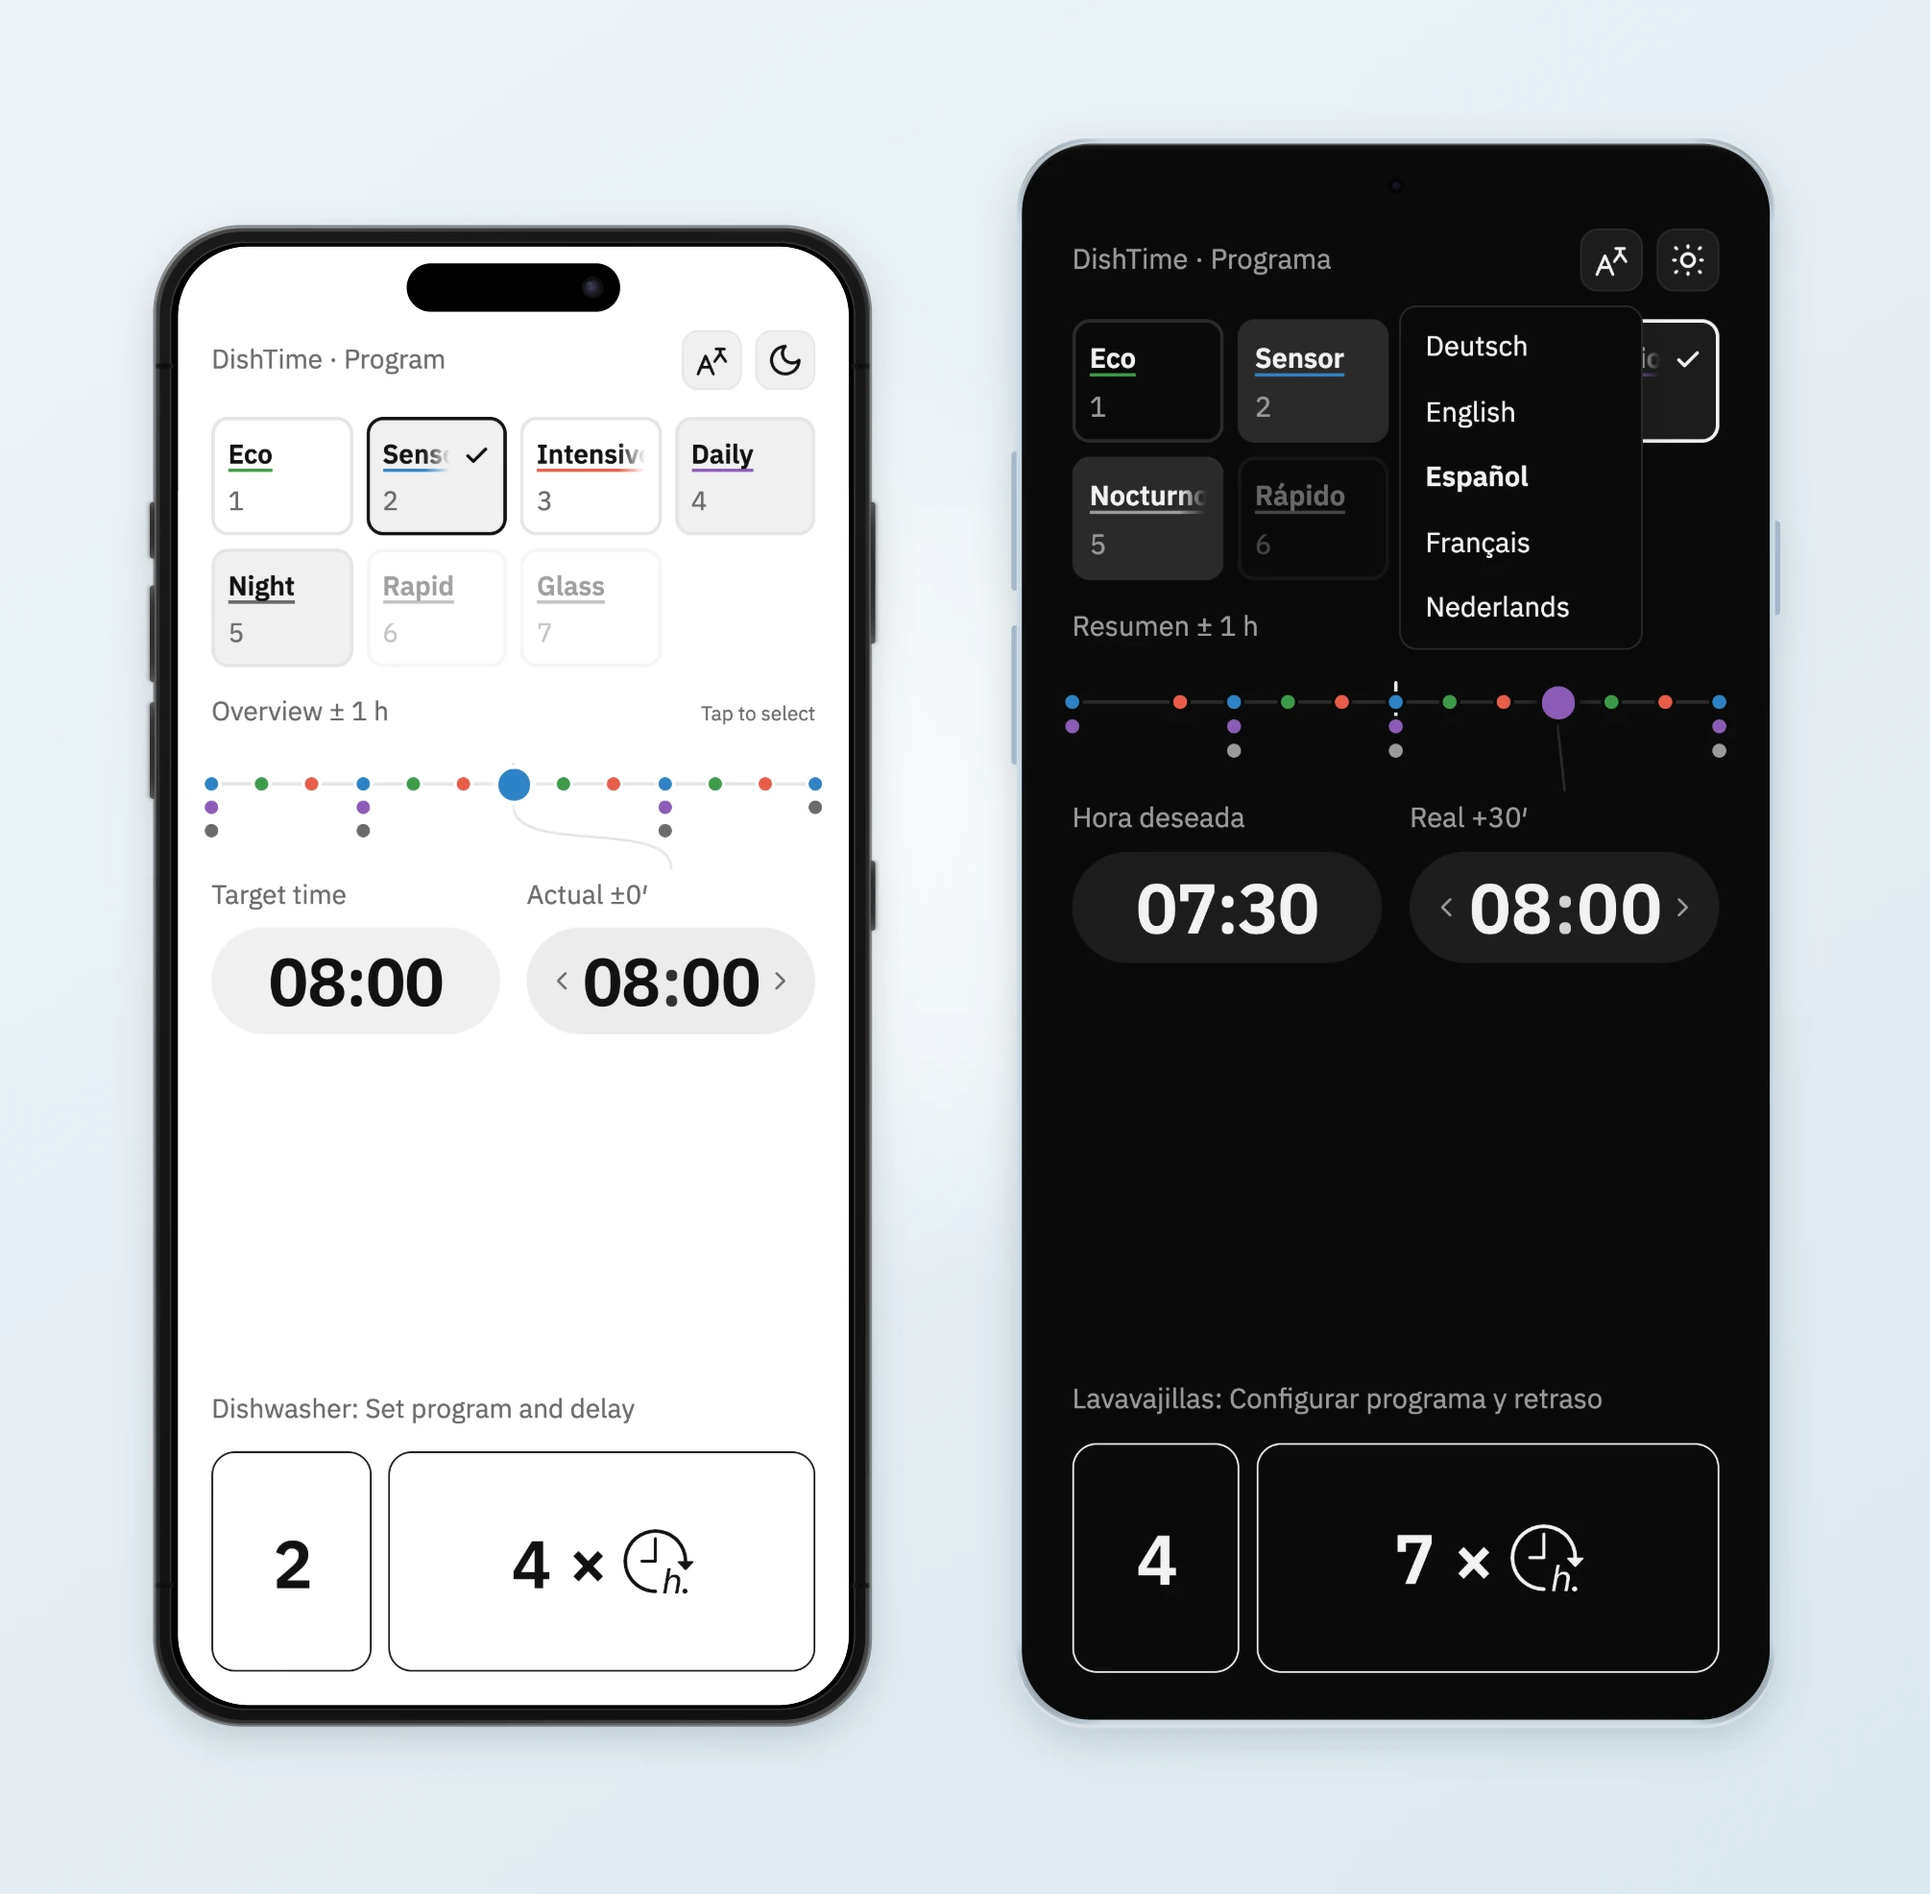
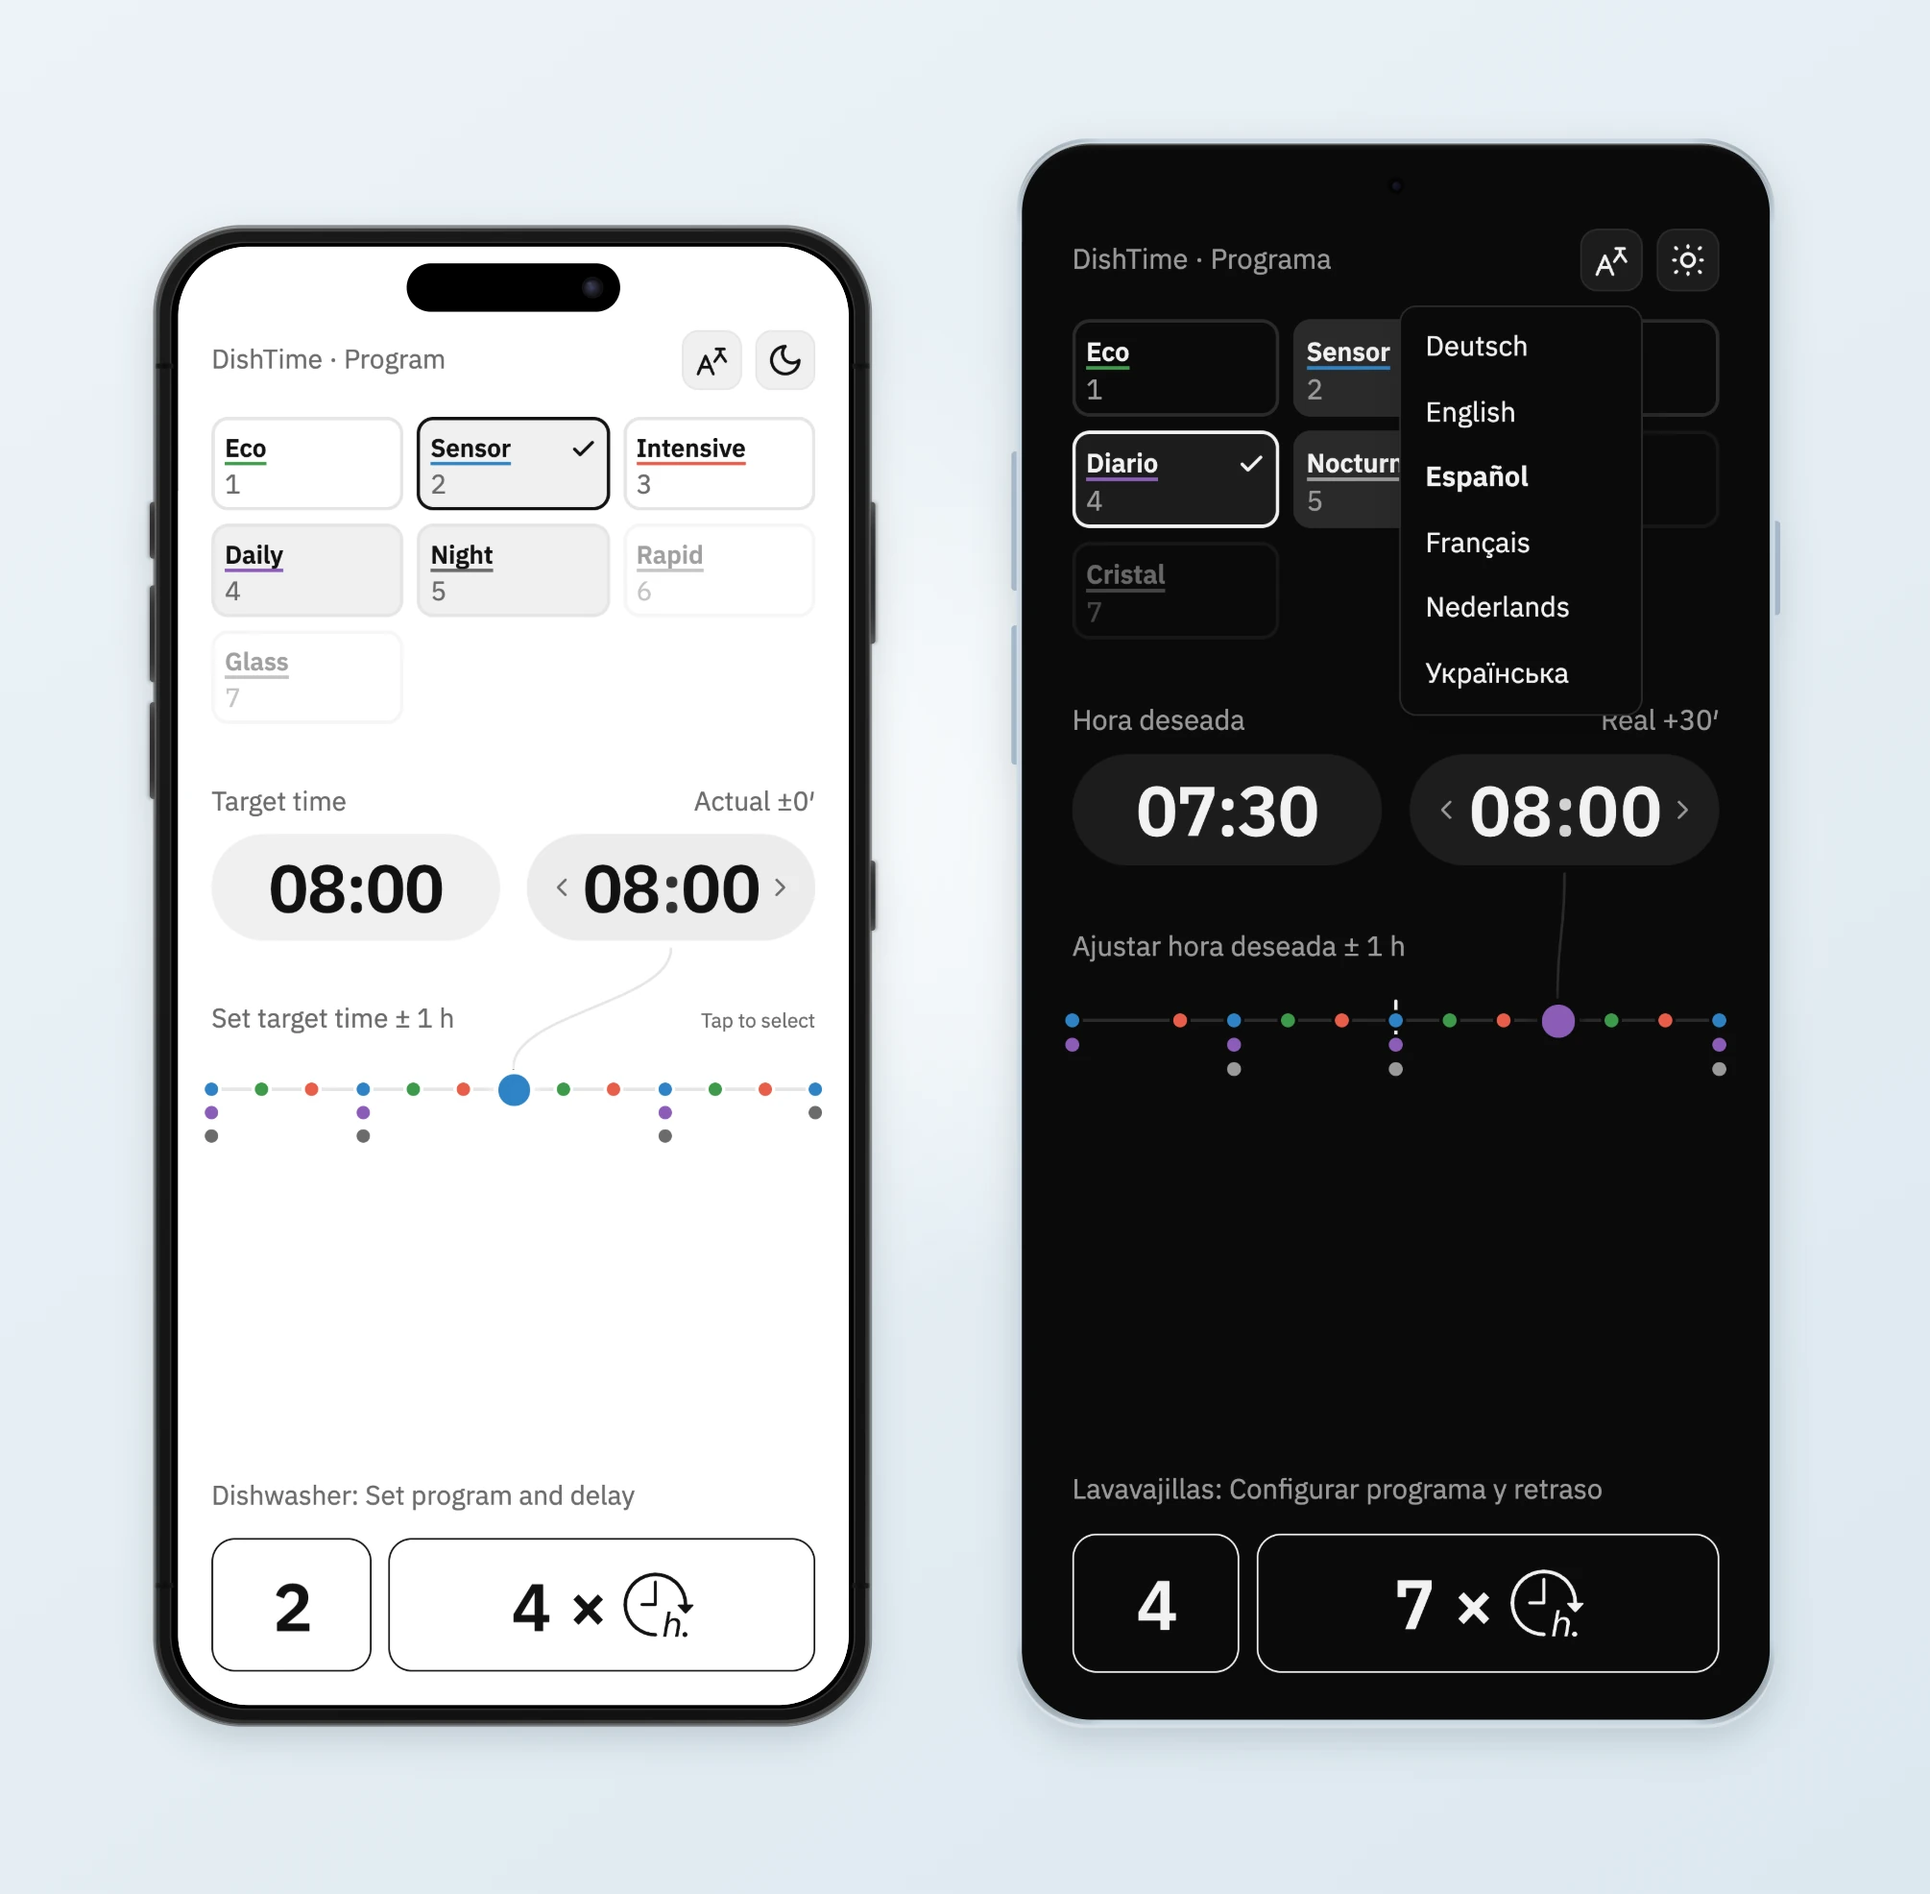
docs: add interaction demo and refresh mockups

diff --git a/README.md b/README.md
@@ -15,7 +15,15 @@ DishTime turns a desired finish time into the right delayed-start setting for a 
 - Finds the closest available finish time for the selected program.
 - Shows the delay setting and number of button presses.
 - Makes alternative programs and finish times easy to compare.
-- Supports Deutsch, English, Español, Français, and Nederlands.
+- Supports Deutsch, English, Español, Français, Nederlands, and Українська.
+
+## See it in action
+
+<p align="center">
+  <img src="assets/readme/dishtime-demo.gif" width="440" alt="Animated DishTime demo showing target-time entry, finish-time scrubbing, program comparison, and the resulting dishwasher settings">
+</p>
+
+<p align="center"><sub>Enter a target time, compare the available options, and use the calculated program and delay.</sub></p>
 
 ## Where it runs
 
